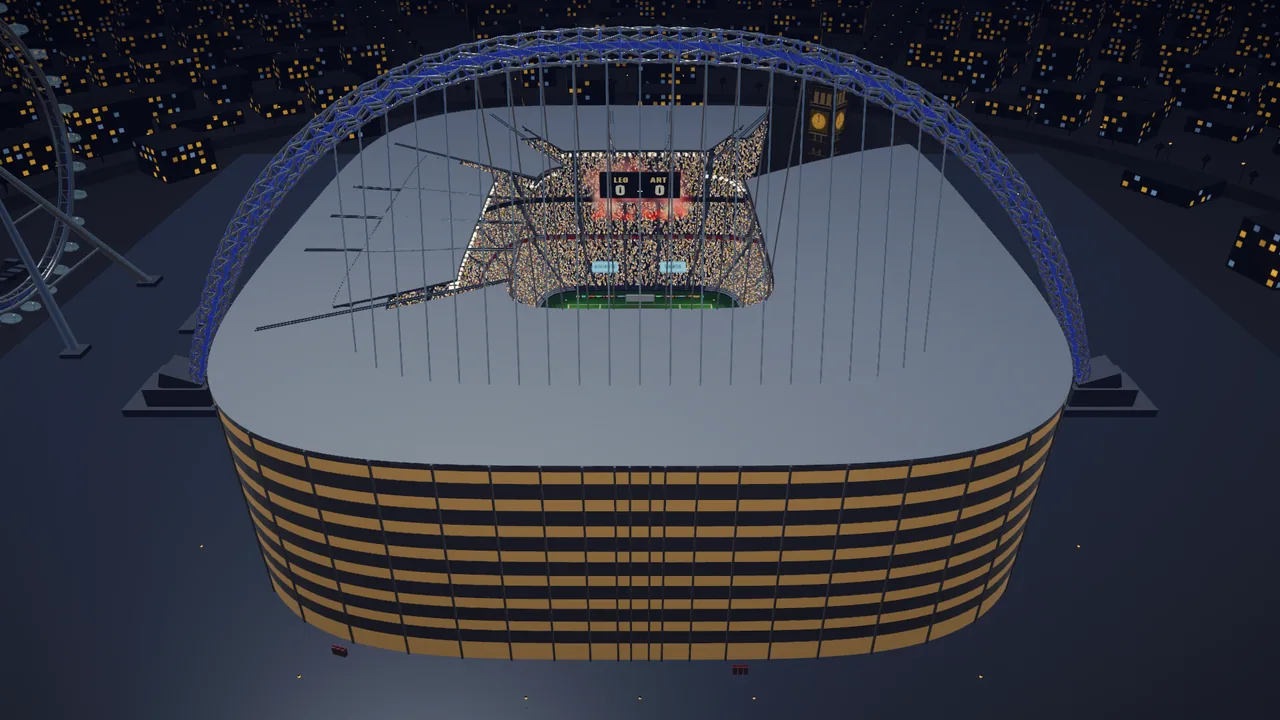
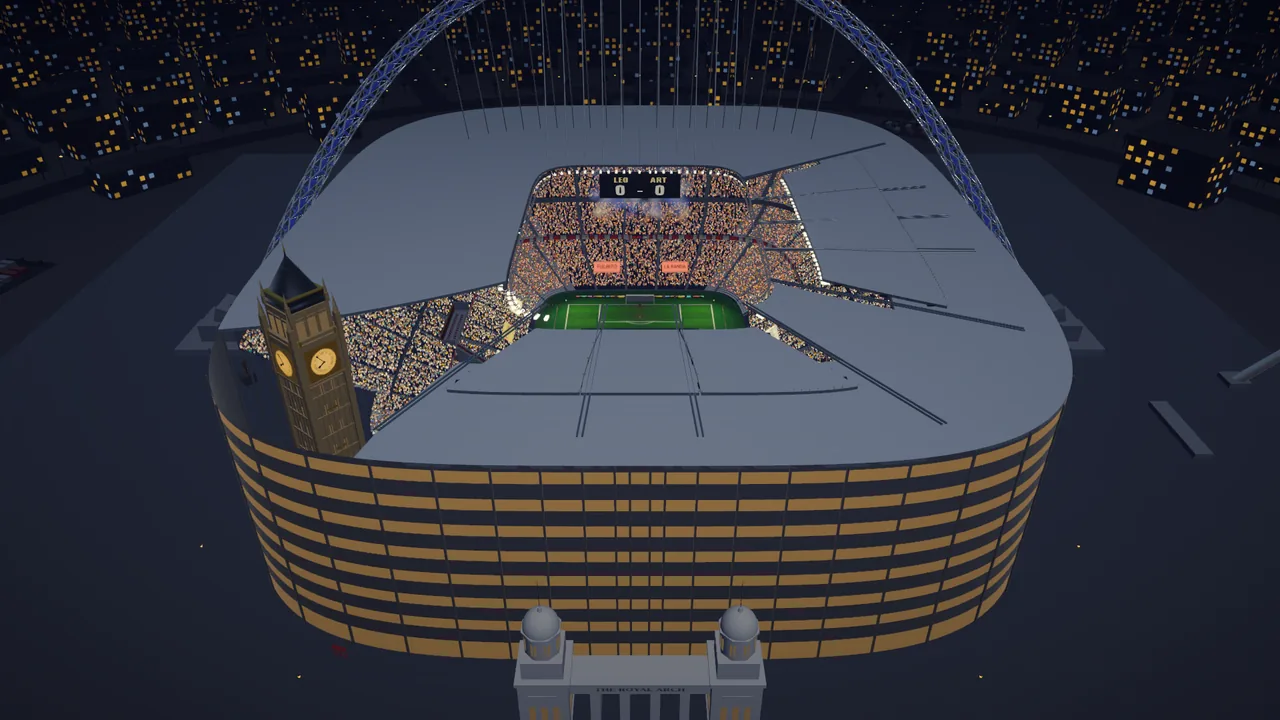
THE ROYAL ARCH: foto desde enfrente, con la torre del reloj adelante
Claude-Session: https://claude.ai/code/session_01PVEoiR8wC71YpCM2bmHPkp

diff --git a/tools/build_assets.py b/tools/build_assets.py
@@ -444,7 +444,7 @@ SEDES_APROBADAS = {
     # 27-oct-2026 — LE PARC DE FER (M274), sobre `_ciudad` con zoom a los textos: los trapos VAMOS /
     # LA BANDA / DALE CAMPEÓN / EL POTRERO y la torre de hierro sin cartel. Nombre inventado.
     "parcdefer",
-    # 28-oct-2026 — THE ROYAL ARCH (sede 14, M279), sobre `_ciudad` (órbita a 32°, del build): el arco
+    # 28-oct-2026 — THE ROYAL ARCH (sede 14, M279), sobre `_ciudad` (órbita a 32°, rumbo 180: la torre del reloj adelante): el arco
     # de acero, la torre del reloj y la noria son siluetas genéricas de Londres, sin texto. El friso dice
     # THE ROYAL ARCH (inventado); la tira del techo se despersonalizó (decía el lema del subte) y el
     # roundel del subte se sacó con la estación. Sin sponsors ni nombre de estadio real.
